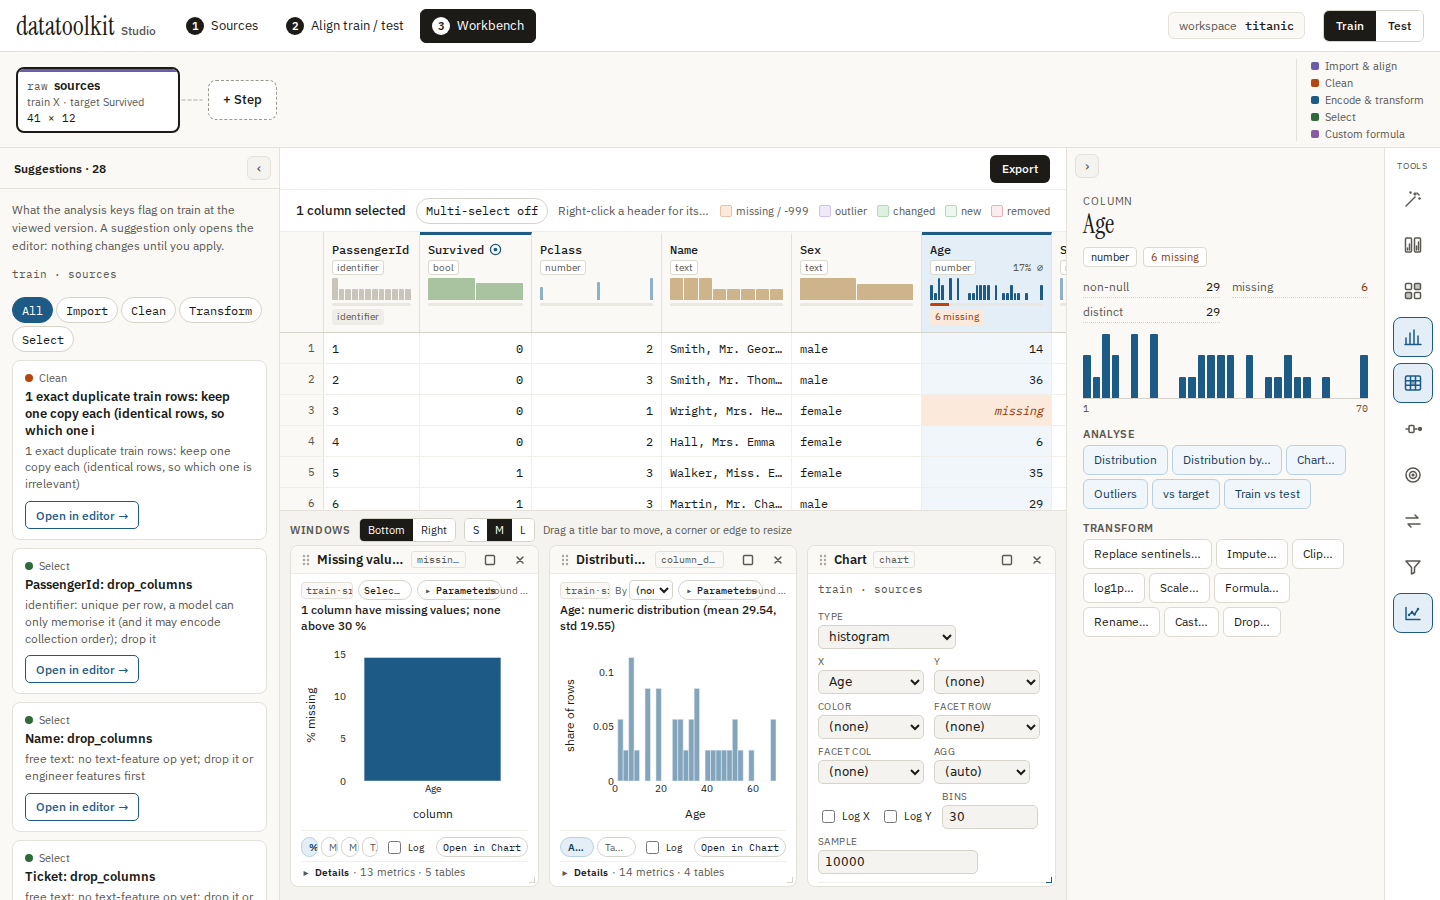
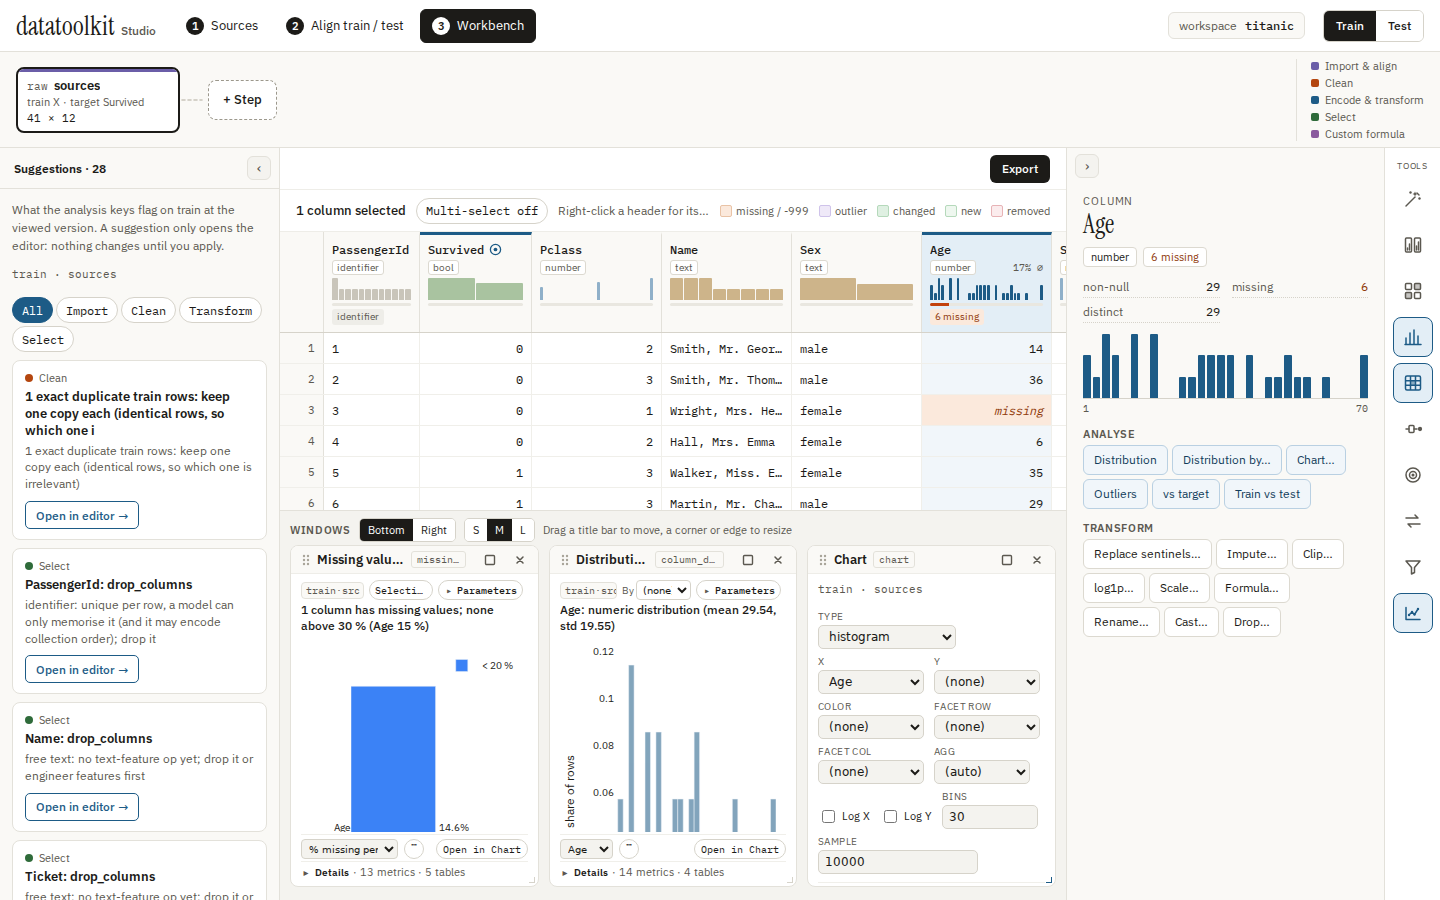
fix(studio): no chip/bound overlap, view choices fold into select and menu (MAT-247)

Changed region(s): [[0.1875, 0.6533, 0.5625, 0.9644], [0.4375, 0.6533, 0.5312, 0.6844], [0.4062, 0.7156, 0.4375, 0.7467]]

diff --git a/e2e/mat235-window-shell.spec.ts b/e2e/mat235-window-shell.spec.ts
@@ -74,6 +74,23 @@ async function clickCentre(page: Page, loc: Locator) {
   await page.mouse.click(b.x + b.width / 2, b.y + b.height / 2);
 }
 
+/** Switch view via its tab, or via the compact select when the bar folds (MAT-247). */
+async function pickView(win: Locator, id: string) {
+  const tab = win.locator(`[data-view-tab="${id}"]`);
+  if (await tab.isVisible()) await tab.click();
+  else await win.locator("[data-view-select]").selectOption(id);
+}
+
+/** Where "Cabin" sits among the category ticks (either axis: bars may be horizontal). */
+async function cabinEnd(figure: Locator): Promise<"first" | "last" | "mid" | "none"> {
+  const labels = (await figure.locator(".xtick text, .ytick text").allTextContents())
+    .map((t) => t.trim())
+    .filter((t) => t && !/^[-\d.,%kM\s−]+$/.test(t));
+  const i = labels.indexOf("Cabin");
+  if (i < 0) return "none";
+  return i === 0 ? "first" : i === labels.length - 1 ? "last" : "mid";
+}
+
 test("MAT-235: figure-first analysis windows", async ({ page }) => {
   test.setTimeout(360_000);
   clearFlowScreenshots(FLOW);
@@ -104,7 +121,12 @@ test("MAT-235: figure-first analysis windows", async ({ page }) => {
   expect(mainIdx).toBeGreaterThanOrEqual(0);
   await expect(shell).toHaveAttribute("data-view", `figure:${mainIdx}`);
   // Default = the `main` figure, else the first.
-  await expect(missing.locator('[data-view-tab="table"]')).toBeVisible();
+  // Table view is offered: as a tab, or as an option once the bar folds (MAT-247).
+  if (await missing.locator(".result-tabs").isVisible()) {
+    await expect(missing.locator('[data-view-tab="table"]')).toBeVisible();
+  } else {
+    await expect(missing.locator('[data-view-select] option[value="table"]')).toHaveCount(1);
+  }
   const details = missing.locator(".result-details");
   await expect(details).toHaveAttribute("data-details-open", "0");
   await expect(missing.locator(".result-table-block")).toHaveCount(0);
@@ -138,11 +160,12 @@ test("MAT-235: figure-first analysis windows", async ({ page }) => {
   // Front-only display: sorting re-draws without re-running the key.
   const before = runs.length;
   await missing.getByLabel("Sort bars").selectOption("desc");
-  await expect(figure.locator(".xtick text").first()).toHaveText("Cabin");
+  await expect.poll(() => cabinEnd(figure)).toMatch(/^(first|last)$/);
+  const descEnd = await cabinEnd(figure);
   await missing.getByLabel("Sort bars").selectOption("asc");
-  await expect(figure.locator(".xtick text").first()).not.toHaveText("Cabin");
+  await expect.poll(() => cabinEnd(figure)).not.toBe(descEnd);
   await missing.getByLabel("Sort bars").selectOption("desc");
-  await expect(figure.locator(".xtick text").first()).toHaveText("Cabin");
+  await expect.poll(() => cabinEnd(figure)).toBe(descEnd);
   await missing.getByRole("checkbox", { name: "Log" }).check();
   await expect(figure.locator(".main-svg").first()).toBeVisible();
   await missing.getByRole("checkbox", { name: "Log" }).uncheck();
@@ -158,7 +181,7 @@ test("MAT-235: figure-first analysis windows", async ({ page }) => {
   await expect(missing.locator(".result-figure .main-svg").first()).toBeVisible();
   await captureFlowScreenshot(page, FLOW, "02-missing-after-view-change.png");
 
-  await missing.locator('[data-view-tab="table"]').click();
+  await pickView(missing, "table");
   await expect(shell).toHaveAttribute("data-view", "table");
   const rates = missing.locator(".result-main .result-table-block", {
     hasText: "missing_rates",
@@ -183,7 +206,7 @@ test("MAT-235: figure-first analysis windows", async ({ page }) => {
   });
 
   // Back to the default figure; Details drawer: metric tiles + tables.
-  await missing.locator(`[data-view-tab="${initialView}"]`).click();
+  await pickView(missing, initialView!);
   await expect(shell).toHaveAttribute("data-view", initialView!);
   await maximize(page, "missing");
   await openDetails(missing);
@@ -196,9 +219,9 @@ test("MAT-235: figure-first analysis windows", async ({ page }) => {
   await expect(details).toHaveAttribute("data-details-open", "0");
 
   // --- Click-through: a bar named after a column selects it in the grid ---
-  await missing.locator(`[data-view-tab="${initialView}"]`).click();
+  await pickView(missing, initialView!);
   await missing.getByLabel("Sort bars").selectOption("desc");
-  await expect(figure.locator(".xtick text").first()).toHaveText("Cabin");
+  await expect.poll(() => cabinEnd(figure)).toBe(descEnd);
   await clickCentre(page, figure.locator(".bars .point path").first());
   await expect.poll(() => selection(page)).toEqual(["Cabin"]);
   // The clicked window keeps showing every column (scope widened).
@@ -266,6 +289,33 @@ test("MAT-235: figure-first analysis windows", async ({ page }) => {
       .locator(".dock-body")
       .evaluate((el) => el.scrollHeight > el.clientHeight + 1);
     expect(hasScroll).toBe(false);
+
+    // MAT-247: the Parameters chip and the bound label never overlap.
+    const chip = w.locator(".dock-subchrome .dock-params-chip").first();
+    if (await chip.isVisible()) {
+      const cBox = await box(chip);
+      const bound = w.locator(".dock-subchrome .dock-bound").first();
+      if ((await bound.count()) > 0 && (await bound.isVisible())) {
+        const bBox = await box(bound);
+        expect(cBox.x + cBox.width).toBeLessThanOrEqual(bBox.x + 0.5);
+      }
+    }
+
+    // MAT-247: view choices are readable (>= 3 visible characters) or folded
+    // into a select / "..." menu — never 1-2 letter chips.
+    const tabs = w.locator('.result-tabs [role="tab"]');
+    if (await w.locator(".result-tabs").isVisible()) {
+      for (const t of await tabs.all()) {
+        const txt = ((await t.textContent()) ?? "").trim();
+        const tb = await box(t);
+        expect(tb.width).toBeGreaterThan(24);
+        expect(txt.length >= 3 || tb.width >= 40).toBe(true);
+        const clipped = await t.evaluate((el) => el.scrollWidth > el.clientWidth + 1);
+        expect(clipped).toBe(false);
+      }
+    } else {
+      await expect(w.locator("[data-view-select]")).toBeVisible();
+    }
   }
 
   // MAT-246: Plotly mode bar is only visible on hover

diff --git a/src/bench/dock/AnalysisResultView.tsx b/src/bench/dock/AnalysisResultView.tsx
@@ -1,4 +1,4 @@
-import { useMemo } from "react";
+import { useMemo, useState } from "react";
 
 import type { Result } from "../../api/types";
 import { useAppDispatch, useAppState } from "../../state/AppStore";
@@ -41,7 +41,9 @@ function DisplayControls({
   caps,
   display,
   onChange,
+  open,
 }: {
+  open: boolean;
   caps: ReturnType<typeof figureCaps>;
   display: FigureDisplay;
   onChange: (patch: Partial<FigureDisplay>) => void;
@@ -50,7 +52,12 @@ function DisplayControls({
     return null;
   }
   return (
-    <div className="result-display" role="group" aria-label="Display">
+    <div
+      className="result-display"
+      role="group"
+      aria-label="Display"
+      data-open={open ? "1" : "0"}
+    >
       {caps.sortable ? (
         <>
           <select
@@ -150,6 +157,7 @@ export function AnalysisResultView({
   const detailsOpen = state?.details === true;
   const patch = (p: ToolViewState) =>
     dispatch({ type: "PATCH_TOOL_VIEW", key: viewKey, patch: p });
+  const [displayOpen, setDisplayOpen] = useState(false);
   const select = (v: WindowView) => patch({ view: storedViewFor(result, v) });
 
   const figure = view.kind === "figure" ? result.figures[view.index] : undefined;
@@ -269,12 +277,51 @@ export function AnalysisResultView({
               ) : null}
             </div>
           ) : null}
+          {result.figures.length > 0 ? (
+            <select
+              className="result-view-select"
+              aria-label="View"
+              data-view-select=""
+              value={viewId}
+              onChange={(e) => {
+                const v = e.target.value;
+                select(
+                  v === "table"
+                    ? { kind: "table" }
+                    : { kind: "figure", index: Number(v.split(":")[1]) },
+                );
+              }}
+            >
+              {result.figures.map((f, i) => (
+                <option key={`${f.title}-${i}`} value={`figure:${i}`}>
+                  {f.title}
+                </option>
+              ))}
+              {hasTables ? <option value="table">Table</option> : null}
+            </select>
+          ) : null}
           {caps ? (
-            <DisplayControls
-              caps={caps}
-              display={display}
-              onChange={(d) => patch({ display: d })}
-            />
+            <>
+              <DisplayControls
+                caps={caps}
+                display={display}
+                onChange={(d) => patch({ display: d })}
+                open={displayOpen}
+              />
+              {caps.sortable || caps.percent || caps.log || caps.annotations ? (
+                <button
+                  type="button"
+                  className="chip result-display-toggle"
+                  data-display-toggle=""
+                  aria-label="Display options"
+                  aria-expanded={displayOpen}
+                  title="Display options"
+                  onClick={() => setDisplayOpen((o) => !o)}
+                >
+                  ⋯
+                </button>
+              ) : null}
+            </>
           ) : null}
           <span className="result-viewbar-spacer" />
           {onOpenChart ? (

diff --git a/src/bench/dock/Dock.css b/src/bench/dock/Dock.css
@@ -358,12 +358,11 @@
 .dock-subchrome .dock-params {
   display: inline-flex;
   align-items: center;
-  flex-shrink: 1;
+  flex-shrink: 0;
   margin: 0;
   padding: 0;
   border: none;
   background: none;
-  min-width: 22px;
 }
 
 .dock-subchrome .dock-params-chip {
@@ -371,15 +370,11 @@
   padding: 0 5px;
   font-size: 10px;
   border-radius: 10px;
-  flex-shrink: 1;
+  flex-shrink: 0;
   display: inline-flex;
   align-items: center;
   gap: 3px;
   white-space: nowrap;
-  max-width: 85px;
-  min-width: 22px;
-  overflow: hidden;
-  text-overflow: ellipsis;
 }
 
 .dock-subchrome .dock-params-title {
@@ -392,8 +387,8 @@
 
 .dock-subchrome .dock-bound {
   margin: 0;
-  flex: 1 1 50px;
-  min-width: 40px;
+  flex: 1 1 0;
+  min-width: 0;
   overflow: hidden;
   text-overflow: ellipsis;
   white-space: nowrap;
@@ -775,6 +770,8 @@
 }
 
 .result-viewbar {
+  container-type: inline-size;
+  position: relative;
   display: flex;
   flex-wrap: nowrap;
   align-items: center;
@@ -1034,3 +1031,60 @@
 }
 
 /* Chart builder styles: ChartDock.css (MAT-240). */
+
+/* MAT-247: view choices never truncate to a letter — below the width where
+   the tabs and display controls fit, they fold into a select and a "⋯" menu. */
+.result-view-select,
+.result-display-toggle {
+  display: none;
+}
+
+.result-view-select {
+  height: 20px;
+  max-width: 140px;
+  min-width: 0;
+  border: 1px solid var(--dtk-border-strong);
+  border-radius: 4px;
+  background: var(--dtk-bg);
+  color: var(--dtk-ink);
+  font-size: 10px;
+  padding: 0 3px;
+}
+
+.result-display-toggle {
+  height: 20px;
+  padding: 0 6px;
+  font-size: 12px;
+  line-height: 1;
+  flex-shrink: 0;
+}
+
+.result-tab {
+  flex-shrink: 0;
+}
+
+@container (max-width: 560px) {
+  .result-tabs {
+    display: none;
+  }
+  .result-view-select,
+  .result-display-toggle {
+    display: inline-flex;
+  }
+  .result-display {
+    display: none;
+  }
+  .result-display[data-open="1"] {
+    display: flex;
+    flex-wrap: wrap;
+    position: absolute;
+    right: 0;
+    bottom: 100%;
+    z-index: 5;
+    padding: 6px;
+    background: var(--dtk-surface);
+    border: 1px solid var(--dtk-border-strong);
+    border-radius: 6px;
+    box-shadow: 0 2px 8px rgba(0, 0, 0, 0.15);
+  }
+}

diff --git a/e2e/flow9-dist-by.spec.ts b/e2e/flow9-dist-by.spec.ts
@@ -53,7 +53,7 @@ test("MAT-147: Distribution by target / by column (Titanic) + outliers scoped", 
 
   // Age by Survived (numeric × categorical target)
   let dist = await openDistBy(page, "Age", "Survived");
-  await expect(dist.getByText(/split by Survived/)).toBeVisible();
+  await expect(dist.locator(".dock-bound")).toHaveAttribute("title", /split by Survived/);
   await expect(dist.locator(".result-figure").first()).toBeVisible({
     timeout: 30_000,
   });
@@ -79,7 +79,7 @@ test("MAT-147: Distribution by target / by column (Titanic) + outliers scoped", 
     window.__DTK_DISPATCH__!({ type: "TOGGLE_TOOL", id: "dist" });
   });
   dist = await openDistBy(page, "Fare", "Pclass");
-  await expect(dist.getByText(/split by Pclass/)).toBeVisible();
+  await expect(dist.locator(".dock-bound")).toHaveAttribute("title", /split by Pclass/);
   await expect(dist.locator(".result-figure").first()).toBeVisible({
     timeout: 30_000,
   });
@@ -97,7 +97,7 @@ test("MAT-147: Distribution by target / by column (Titanic) + outliers scoped", 
   });
   await expect(dist.locator(".result-metric", { hasText: "spearman" })).toBeVisible();
   await expect(dist.getByText("vs_by")).toBeVisible();
-  await expect(dist.getByText("Age vs Fare")).toBeVisible();
+  await expect(dist.locator('[data-view-tab="figure:1"]')).toHaveAttribute("title", "Age vs Fare");
   await waitForGridReady(page);
   await captureFlowScreenshot(page, "9-dist-by", "04-age-vs-fare.png");
 
@@ -162,7 +162,7 @@ test("MAT-147: Distribution by target from y file", async ({ page }) => {
     .toBe("target");
 
   const dist = await openDistBy(page, "Age", "target");
-  await expect(dist.getByText(/split by target/)).toBeVisible();
+  await expect(dist.locator(".dock-bound")).toHaveAttribute("title", /split by target/);
   await expect(
     dist.locator('[data-engine-key="column_distribution"]'),
   ).toBeVisible();
